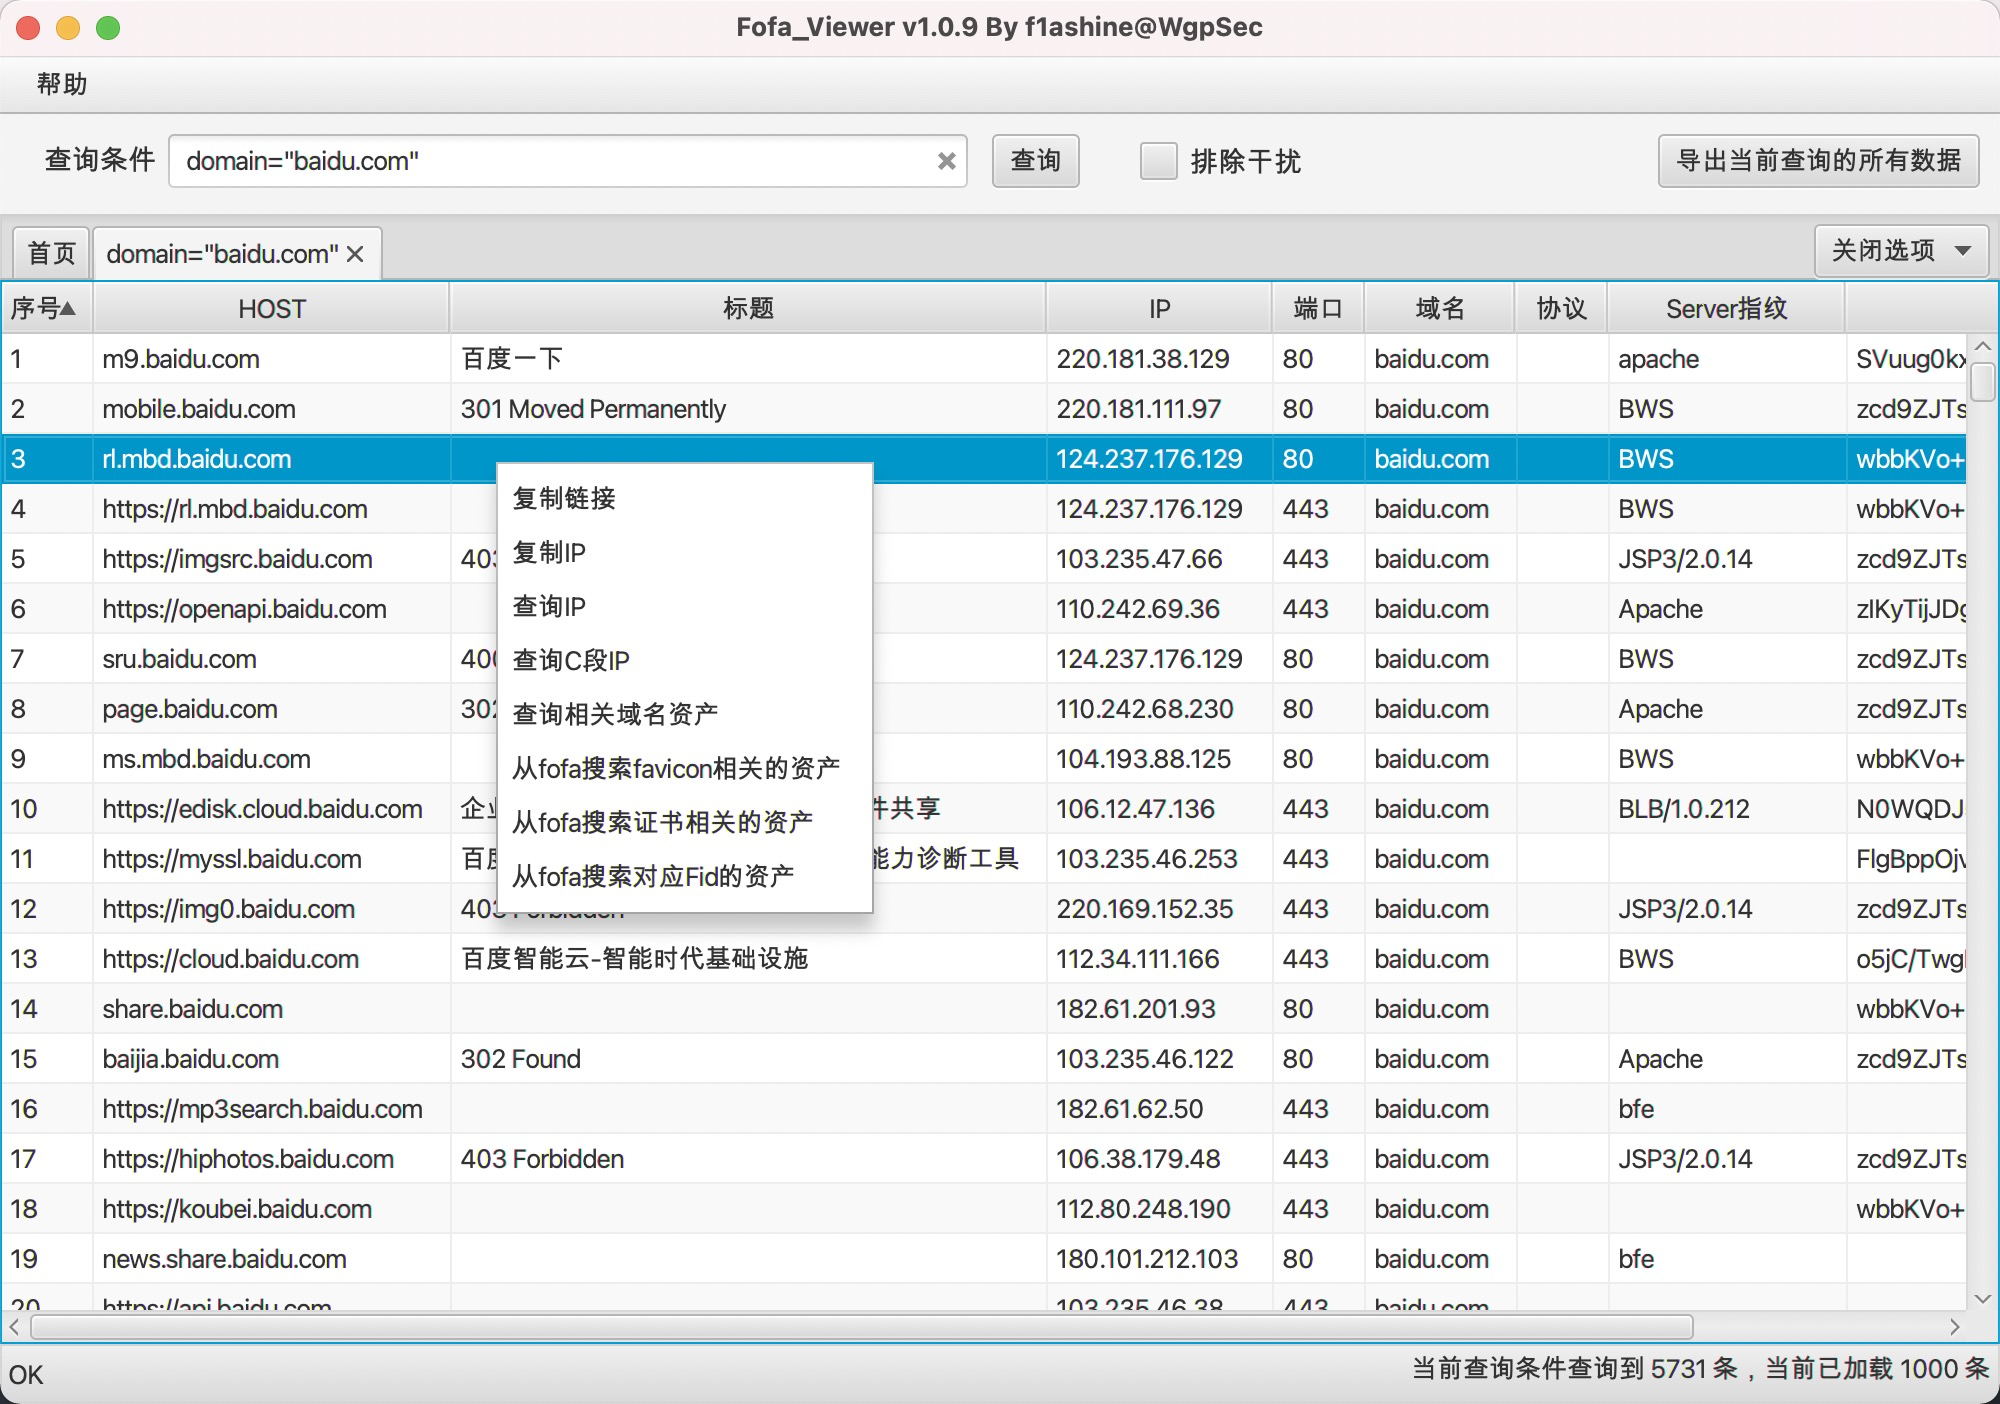
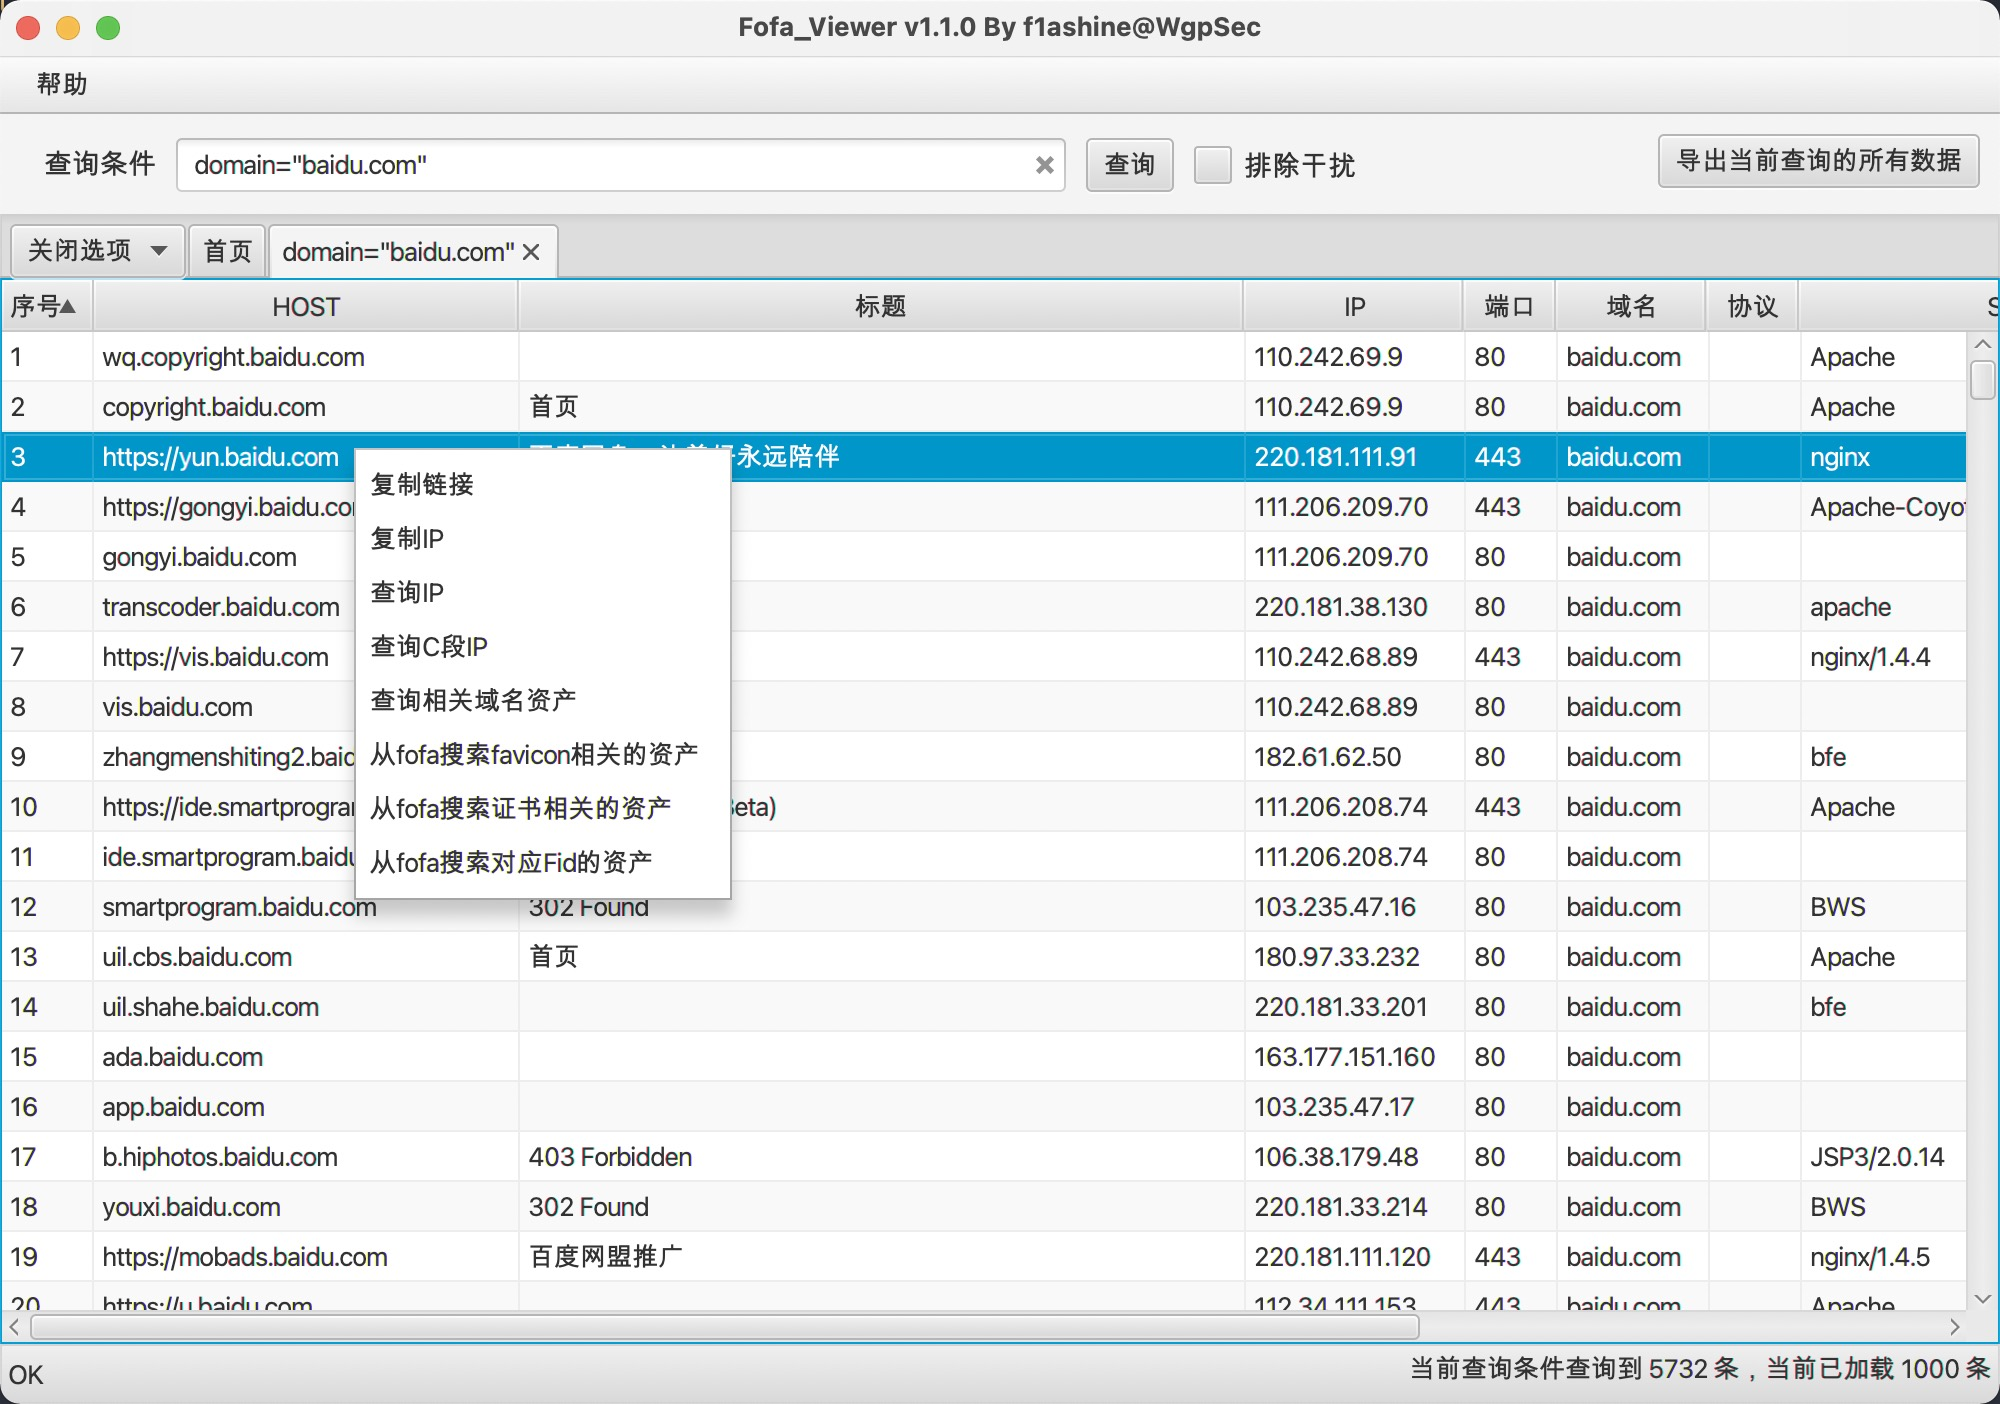
✨changes： 1.优化了Tab页的显示 2. 搜索框可以根据界面大小缩放 3. 多个Tab可以使用TabPane自带的功能进行切换，设置了tab的最大显示长度 ⚡优化了一个jdk11获取Locale与JDK8不同的问题

diff --git a/src/main/resources/tabpane.css b/src/main/resources/tabpane.css
@@ -1,0 +1,3 @@
+.tab-pane .tab-header-area {
+    -fx-padding: 5 0 0 94;
+}

diff --git a/src/main/java/org/fofaviewer/controls/CloseableTabPane.java b/src/main/java/org/fofaviewer/controls/CloseableTabPane.java
@@ -22,12 +22,14 @@ public class CloseableTabPane extends BorderPane {
         this.tabPane = new TabPane();
         this.dataMap = new HashMap<>();
         this.barMap = new HashMap<>();
+        this.tabPane.tabMaxWidthProperty().set(150);
+        tabPane.getStylesheets().add(getClass().getResource("/tabpane.css").toExternalForm());
         StackPane sp = new StackPane();
         sp.getChildren().add(tabPane);
         MenuButton menuButton = new MenuButton(ResourceBundleUtil.getResource().getString("CLOSE_OPTIONS"));
         menuButton.setVisible(false);
         StackPane.setMargin(menuButton,new Insets(5));
-        sp.setAlignment(Pos.TOP_RIGHT);
+        sp.setAlignment(Pos.TOP_LEFT);
         //Tab全部关闭后，则不显示关闭菜单按钮
         tabPane.getTabs().addListener(new ListChangeListener<Tab>() {
             @Override
@@ -80,6 +82,7 @@ public class CloseableTabPane extends BorderPane {
         sp.getChildren().add(menuButton);
         super.setCenter(sp);
         Tab tab = new Tab(homepage);
+        tab.setTooltip(new Tooltip(tab.getText()));
         this.addTab(tab, null);
         tab.setClosable(false); //取消启动页的关闭按钮
     }

diff --git a/src/main/java/org/fofaviewer/main/MainController.java b/src/main/java/org/fofaviewer/main/MainController.java
@@ -113,7 +113,7 @@ public class MainController {
         Label faviconLabel = new Label(resourceBundle.getString("FAVICON_LABEL"));
         TextField tf = TextFields.createClearableTextField();
         TextField favionTF = TextFields.createClearableTextField();
-        Image image = new Image(Locale.getDefault() == Locale.CHINA ? "api_doc_cn.png" : "api_doc_en.png");
+        Image image = new Image(Locale.getDefault().getLanguage().equals(Locale.CHINESE.getLanguage()) ? "api_doc_cn.png" : "api_doc_en.png");
         ImageView view = new ImageView(image);
         ScrollPane scrollPane = new ScrollPane();
         scrollPane.setHbarPolicy(ScrollPane.ScrollBarPolicy.NEVER);
@@ -386,6 +386,7 @@ public class MainController {
                     Tab tab = new Tab();
                     TabDataBean _tmp = new TabDataBean();
                     tab.setText(task.getTabTitle());
+                    tab.setTooltip(new Tooltip(tab.getText()));
                     JSONObject obj = JSON.parseObject(result.get("msg"));
                     if (obj.getBoolean("error")) {
                         showAlert(Alert.AlertType.ERROR, null, obj.getString("errmsg"));

diff --git a/src/main/java/org/fofaviewer/main/MainApp.java b/src/main/java/org/fofaviewer/main/MainApp.java
@@ -17,7 +17,7 @@ public class MainApp extends Application {
         FXMLLoader loader = new FXMLLoader(getClass().getResource("/fofa_viewer.fxml"));
         Scene scene = new Scene(loader.load());
         stage.setScene(scene);
-        stage.setTitle("Fofa_Viewer v1.0.9 By f1ashine@WgpSec");
+        stage.setTitle("Fofa_Viewer v1.1.0 By f1ashine@WgpSec");
         stage.show();
         // 设置窗口的最小宽度和高度，避免自由伸缩太小不方便看
         stage.widthProperty().addListener((o, oldValue, newValue)->{

diff --git a/src/main/java/org/fofaviewer/utils/ResourceBundleUtil.java b/src/main/java/org/fofaviewer/utils/ResourceBundleUtil.java
@@ -8,10 +8,10 @@ public class ResourceBundleUtil {
     private static final ResourceBundle resource;
 
     static {
-        if (Locale.getDefault() != Locale.CHINA) {
-            resource = ResourceBundle.getBundle("locales", Locale.US);
-        }else{
+        if (Locale.getDefault().getLanguage().equals(Locale.CHINESE.getLanguage())) {
             resource = ResourceBundle.getBundle("locales", Locale.CHINA);
+        }else{
+            resource = ResourceBundle.getBundle("locales", Locale.US);
         }
     }
 

diff --git a/src/main/java/org/fofaviewer/utils/RequestHelper.java b/src/main/java/org/fofaviewer/utils/RequestHelper.java
@@ -120,7 +120,7 @@ public class RequestHelper {
                         LogUtil.log("RequestHelper", url + "无响应内容", Level.FINER);
                         return null;
                     }
-                    String encoded =  Base64.encodeBase64String(resp1);
+                    String encoded = Base64.encodeBase64String(resp1);
                     String hash = getIconHash(encoded);
                     result.put("msg", "icon_hash=\"" + hash + "\"");
                     return result;

diff --git a/README.md b/README.md
@@ -14,7 +14,8 @@
 
 Fofa_Viewer 一个简单易用的fofa客户端由WgpSec狼组安全团队 [**f1ashine**](https://github.com/f1ashine) 师傅主要编写 ，程序使用使用javaFx编写，便于跨平台使用
 
-##  使用
+##  使用说明
+本工具基于FoFa的API进行的封装，使用时需要高级会员或者普通会员的API key，使用注册用户的API key会提示账户需要充值F币。
 
 点击 https://github.com/wgpsec/fofa_viewer/releases下载
 
@@ -24,7 +25,6 @@ Fofa_Viewer 一个简单易用的fofa客户端由WgpSec狼组安全团队 [**f1a
 下载后修改`config.properties` 即可开始使用
 
 Mac 用户可通过 [自动化操作创建应用程序](docs/mac.md) 进行快速启动 Fofa_Viewer
-
 
 **若下载速度太慢可以使用**
 

diff --git a/README.en.md b/README.en.md
@@ -15,6 +15,14 @@ Fofa_Viewer: A simple FOFA client written in JavaFX.
 Made by WgpSec, Maintained by [**f1ashine**](https://github.com/f1ashine).
 
 ## Usage
+The data obtained by this tool through FoFa's API.  
+You need to set the API key of senior member or ordinary member to the file config.properties.  
+Using the API key of the registered user will prompt that the account needs to be topped up with F coins
+
+Click https://github.com/wgpsec/fofa_viewer/releases to download.
+
+- If you are using JDK11 or higher version, please download the zip package without version number.
+- If you are using JDK8, please download FoFaViewer_JDK8.zip
 
 Download [latest build](https://github.com/wgpsec/fofa_viewer/releases/) and edit `config.properties` to start. 
 
